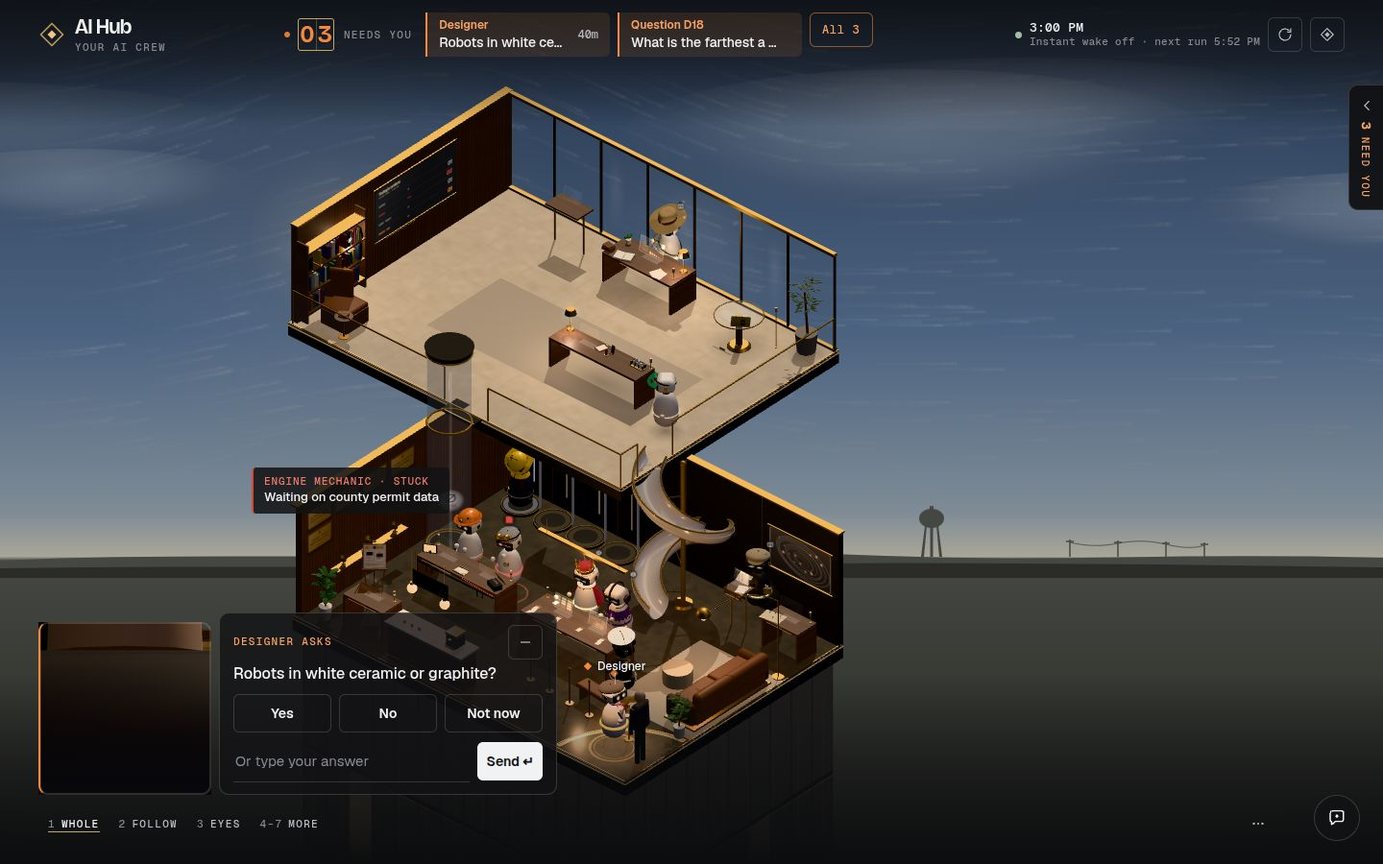
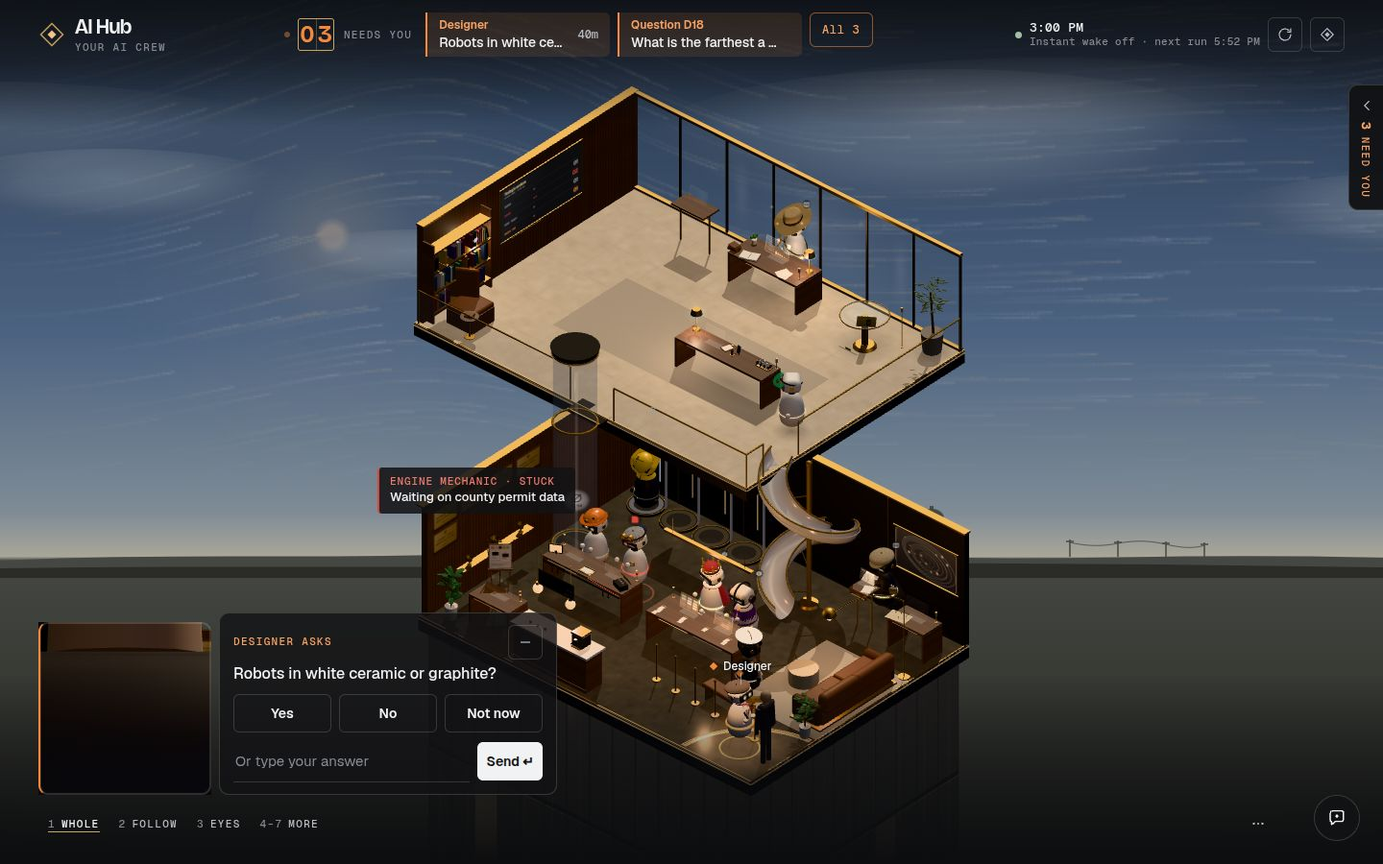
Hub v28.0: King thread on top of the live v28.0 (amazing-wright b2b50ad fixes: face-cam, seat plates, Ledger toast)
design_gate --page crew-hq PASS (120 views). FilthE: yes, commit and push hub v28.

Claude-Session: https://claude.ai/code/session_01FERv6AGSv3mJ7kZTLTcybV

Changed region(s): [[0.1562, 0.0933, 0.7188, 0.9022]]

diff --git a/pages/crew-hq.html b/pages/crew-hq.html
@@ -138,6 +138,7 @@ h1,h2,h3,p{margin:0}
 .still{position:absolute;left:0;right:0;top:56px;bottom:64px;width:100%;height:calc(100% - 120px);object-fit:contain;display:none}
 .no-gl .still{display:block}
 .no-gl #gl{display:none}
+.no-gl #camSeg{display:none}
 .foot-scrim{position:absolute;left:0;right:0;bottom:0;height:22%;background:var(--scrim-foot);pointer-events:none}
 .ov{position:absolute;inset:0;pointer-events:none;overflow:hidden}
 .stagetop{position:absolute;left:12px;right:12px;top:10px;z-index:4;display:flex;gap:8px;align-items:flex-start;justify-content:center;pointer-events:none}
@@ -625,9 +626,10 @@ button.task:hover{border-color:var(--brass);color:var(--ink)}
 .tag.sel{color:#e3c98f}
 .bub.blocked,.bub.done{color:#f1f2f4}
 :root[data-look="ledger"] .stagebar{background:var(--card-solid);border:1px solid var(--rule);border-radius:var(--r);padding:0 6px}
-:root[data-look="ledger"] .btn.pri{color:#fbfaf7}
-:root[data-look="ledger"] .btn.pri:hover{background:#000}
 :root[data-look="ledger"] .live .clk{color:var(--ink)}
+/* Ledger's ink is dark: the ivory Send button and the toast flip to light text on it */
+:root[data-look="ledger"] .btn.pri,:root[data-look="ledger"] .app-toast{color:var(--bg-2)}
+:root[data-look="ledger"] .btn.pri:hover{background:#000}
 
 /* ---------- P4: spotlight, speech chips, The Call, robot eyes, coffee ---------- */
 .spot{position:absolute;inset:0;pointer-events:none;opacity:0;transition:opacity .25s;background:radial-gradient(circle 140px at var(--sx,50%) var(--sy,50%),transparent 0,transparent 55%,var(--spot-dim,rgba(12,13,15,.14)) 100%)}
@@ -964,7 +966,7 @@ const TX = {
       king: n => `${n} board ${n === 1 ? 'item' : 'items'} done.`, busy: p => `One sec… ${p}`, rest: 'Taking a breather.'},
     views: {all: 'Whole', cctv: 'Security cam', up: 'Up', down: 'Down', follow: 'Follow', window: 'Through the window', tilt: 'Tilt-shift', director: 'Director', eyes: 'Eyes'},
     keys: [['1 2 3', 'Whole · Follow · the robot’s eyes'], ['4 – 7', 'Security cam · Through the window · Tilt-shift · Director'], ['↑ ↓', 'Upstairs / downstairs (or scroll over the office)'], ['← →', 'Next robot'], ['0', 'Jump to the Right now list'], ['V', 'Status view: the room greys, only status colors stay lit'], ['P ]', 'Hide or show the panel'], ['K', 'Talk to the Right Hand'], ['N', 'Show every name'], ['A', 'Jump to the next question (focus only; nothing is sent)'], ['C', 'Crew: on a Mac, the top Right now row'], ['B L M', 'Board, Log, Memory'], ['/', 'Search this tab'], ['R', 'Refresh now'], ['Esc', 'Close'], ['?', 'This sheet']],
-    sum: {working: 'working', blocked: 'stuck', sleeping: 'asleep'},
+    sum: {working: 'working', stuck: 'stuck', silent: 'quiet', asleep: 'asleep'},
     none: 'Nothing needs you right now.', moreN: n => `All ${n}`, less: 'Less',
     qWord: 'Question', qFrom: 'On the board', askedBy: n => `${n} asks`, asks: 'Asks you', stuck: 'Stuck on', doing: 'Now doing', lastRes: 'Last result', lastCheck: 'Last check-in', recent: 'Recent',
     livesIn: 'Lives in', reachIt: 'Reach it', close: 'Close', progress: (d, o) => `${d} of ${o}`, noneYet: 'none yet',
@@ -1104,6 +1106,7 @@ function mentionsHail(text){
 }
 
 /* push live state to the scene: a new seq whenever what a robot is doing changes */
+const doneSeen = {};   // id -> when this page saw it turn done (a new seq while done); RIGHT NOW shows done for 6 s like the room (blueprint 3.1)
 function sync(first){
   const now = Date.now();
   for (const a of bots) a.disp = displayState(a, now);
@@ -1114,7 +1117,8 @@ function sync(first){
     const spot = st === 'working' && d.room === 'board' && a.id !== 'code' && a.id !== 'king' ? 'standup' : null;
     a.qinfo = st === 'idle' ? queuedOf(a, asks) : null; a.queued = !!a.qinfo;   // CONTRACT v3: queued is page-derived
     const sig = st + '|' + spot + '|' + (a.step || '') + '|' + a.queued;
-    if (sig !== a.sig) { a.instant = !a.sig || !!first || RMQ.matches; a.sig = sig; a.st = st; a.spot = spot; a.seq++; }
+    if (sig !== a.sig) { if (st === 'done' && a.sig && !first) { doneSeen[a.id] = Date.now(); setTimeout(refreshAll, 6100); }   // done shows 6 s, on the scene's clock
+      a.instant = !a.sig || !!first || RMQ.matches; a.sig = sig; a.st = st; a.spot = spot; a.seq++; }
     a.since = a.atMs || 0;
   }
   // Storm mood: Storm Watch reported hail in the last 3 hours
@@ -1130,7 +1134,8 @@ function sync(first){
 /* the 7-state id (blueprint 3.1): the scene state, plus queued (derived) and silent (the run watchdog) */
 function st7For(a){
   const st = a.st;
-  if (st === 'waiting') return 'needs'; if (st === 'blocked') return 'stuck'; if (st === 'done') return 'done'; if (st === 'sleeping') return 'asleep';
+  if (st === 'waiting') return 'needs'; if (st === 'blocked') return 'stuck'; if (st === 'sleeping') return 'asleep';
+  if (st === 'done') return Date.now() - (doneSeen[a.id] || 0) < 6000 ? 'done' : 'idle';   // 6 s, then free (a reload shows it free, as the room does)
   if (st === 'working') return a.silent ? 'silent' : 'working';
   if (a.queued) return 'queued';
   return a.disp && a.disp.stale && !a.disp.orphan ? 'silent' : 'idle';   // still "working" hours after its last check-in: quiet, not free
@@ -1294,17 +1299,19 @@ function renderNeeds(){
   if (lastNeedIds && dingOn && ids.some(k => k.startsWith('q:') && !lastNeedIds.includes(k))) ding();
   lastNeedIds = ids;
   const botIds = items.filter(i => i.bot).map(i => i.key);
-  if (botIds.join() !== HUB.needs.ids.join()) {   // CONTRACT v2: the call pool + the line
-    const added = botIds.filter(id => !HUB.needs.ids.includes(id)); HUB.needs = {v:HUB.needs.v + 1, ids:botIds};
+  if (botIds.join() !== HUB.needs.ids.join()) HUB.needs = {v:HUB.needs.v + 1, ids:botIds};   // CONTRACT v2: the call pool + the line
+  if (!replay) {   // a replay's states are not new needs: compare with the live ids, which only move outside a replay
+    const liveIds = renderNeeds.live || [], added = botIds.filter(id => !liveIds.includes(id));
     if (added.length && renderNeeds.seeded && !panelOpen()) setPanel(true, {remember:false});   // something new needs him: the panel slides back (his choice stays saved)
+    renderNeeds.live = botIds;
   }
   if (gotAgents) renderNeeds.seeded = true;
   renderPanelTab(n);
   $('#cw').dataset.n = n; rollDigit($('#d10'), Math.min(9, Math.floor(n/10))); rollDigit($('#d1'), n > 99 ? 9 : n % 10); $('#ncount').textContent = ' · ' + n;
   const baseTitle = renderNeeds.base = hubName();   // "(1) Designer needs you — AI Hub"; plain at zero (it follows Make it yours)
   document.title = n ? T.titleNeeds(n, items[0].bot ? items[0].who : items[0].who) : baseTitle;
-  const cnt = {working:0, blocked:0, sleeping:0}; for (const a of bots) { const s = a.disp ? a.disp.status : a.st; if (cnt[s] != null) cnt[s]++; }
-  $('#rsum').textContent = ['working', 'blocked', 'sleeping'].filter(k => cnt[k]).map(k => cnt[k] + ' ' + T.sum[k]).join(' · ');
+  const cnt = {}; for (const a of bots) if (a.st7) cnt[a.st7] = (cnt[a.st7] || 0) + 1;   // the 7-state counts, so it matches RIGHT NOW
+  $('#rsum').textContent = ['working', 'stuck', 'silent', 'asleep'].filter(k => cnt[k]).map(k => cnt[k] + ' ' + T.sum[k]).join(' · ');
   const al = alerts, cw = canWaitItems(), pk = parkedItems();
   const alShow = isWide ? al.slice(0, 1) : al, cap = isWide ? Math.max(1, 2 - alShow.length) : 3, show = !isWide && needsAll ? items : items.slice(0, cap);
   const rest = n - show.length, extra = al.length - alShow.length, hasMore = rest > 0 || extra > 0 || cw.length || pk.length;
@@ -1467,7 +1474,7 @@ function workStep(a){
   const ev = events.find(e => e.agent === a.id && !e.approx && e.atMs >= (a.atMs || 0) - 60e3);   // the event kind, while this state lasts
   if (ev && ev.kind === 'handoff' && ev.to && ev.to !== a.id) return {step:'handing', to:ev.to};
   const allowed = ROLE_VERBS[a.id] || [], doing = a.doing || '';
-  for (const [rx, v] of KEYWORDS) if (allowed.includes(v) && rx.test(doing)) return {step:v};
+  for (const [rx, v] of KEYWORDS) { if (v === 'hail' && !mentionsHail(doing)) continue; if (allowed.includes(v) && rx.test(doing)) return {step:v}; }   // 'no hail' is not Hail found
   return {step:ROLE_STEP[a.id] || 'building'};
 }
 const ageShort = ms => { if (!ms) return ''; const m = Math.max(0, Math.floor((Date.now() - ms)/60000)); return m < 1 ? 'now' : m < 60 ? m + 'm' : m < 1440 ? Math.floor(m/60) + 'h' : Math.floor(m/1440) + 'd'; };
@@ -1497,6 +1504,7 @@ function nowRow(a){
   else if (s7 === 'idle') { step = 'free'; verb = VERB.free; }
   else if (s7 === 'done') { step = ['verified', 'failed', 'shipped', 'hail'].includes(a.step) ? a.step : a.id === 'qa-tester' && a.result ? (a.result.passed >= a.result.of ? 'verified' : 'failed') : 'shipped'; verb = VERB[step];
     detail = a.result && a.result.issues ? a.result.issues + (a.result.issues === 1 ? ' issue' : ' issues') + (a.doing ? ' · ' + a.doing : '') : a.doing; }
+  else if (a.spot === 'standup') { step = 'planning'; verb = 'In stand-up'; detail = a.doing; }   // the room plays the board meeting
   else { const w = workStep(a); step = w.step; verb = w.to ? 'Handing to ' + nameOf(w.to) : VERB[step]; detail = metricWords(a) || a.doing; }
   return {id:a.id, st7:s7, step, verb, metric:metricOf(a, s7), since, cocked:s7 === 'stuck', detail:detail || ''};
 }
@@ -2029,7 +2037,7 @@ function setCam(k, fromDolly){
   for (const b of document.querySelectorAll('#camSeg button[data-cam]')) b.setAttribute('aria-pressed', String(b.dataset.cam === k));
   if (k === 'follow' && !byId[selected]) { const w = waitingBots()[0] || bots.find(a => a.st === 'working') || byId.code; select(w.id); }
 }
-function applyViews(){ const v = builtViews(); $('#camMore').hidden = !v.some(x => MORE_VIEWS.includes(x)); for (const b of document.querySelectorAll('#camSeg button[data-cam]')) b.hidden = !v.includes(b.dataset.cam) && !BASE_VIEWS.includes(b.dataset.cam); }
+function applyViews(){ const v = builtViews(); $('#camMore').hidden = !v.some(x => MORE_VIEWS.includes(x)); for (const b of document.querySelectorAll('#camSeg button[data-cam]')) { b.hidden = !v.includes(b.dataset.cam) && !BASE_VIEWS.includes(b.dataset.cam); b.setAttribute('aria-pressed', String(b.dataset.cam === cam)); } }   // a restored More view (set before the scene was ready) presses nothing here
 $('#camSeg').addEventListener('click', e => { const b = e.target.closest('button[data-cam]'); if (!b) return; if (b.dataset.cam === 'eyes' && !byId[selected]) nextOrKing(); setCam(b.dataset.cam); });
 $('#skyBtn').addEventListener('click', () => { sky.mode = SKY_MODES[(SKY_MODES.indexOf(sky.mode) + 1) % SKY_MODES.length]; applySkyLabel(); renderClock(); });
 function applySkyLabel(){ const T = L(), b = $('#skyBtn'); b.textContent = T.skyT(T.sky[sky.mode]); b.title = T.skyAria(T.sky[sky.mode]); b.setAttribute('aria-pressed', String(sky.mode !== 'live')); }
@@ -2267,7 +2275,7 @@ $('#mine').addEventListener('input', e => {
   if (e.target.id === 'mName') { mine.name = e.target.value.slice(0, 24); applyTheme(true); }
   if (e.target.id === 'mVol') { vol = Math.max(0, Math.min(1, (+e.target.value || 0)/100)); store.set('hub-vol', String(vol)); e.target.setAttribute('aria-valuetext', Math.round(vol*100) + '%');
     if (master) master.gain.setTargetAtTime(vol, actx.currentTime, .05);
-    if (Date.now() - (renderMine.prev || 0) > 350) { renderMine.prev = Date.now(); chime('chat-reader', 'check', true); } }   // hear the new level
+    if (dingOn && Date.now() - (renderMine.prev || 0) > 350) { renderMine.prev = Date.now(); chime('chat-reader', 'check', true); } }   // hear the new level (only with sound on)
 });
 $('#mine').addEventListener('change', e => { if (e.target.closest('[data-swc]')) renderMine(); });
 document.addEventListener('pointerdown', e => { if (!$('#mine').hidden && !e.target.closest('#mine,#mineBtn,#keysMine')) closeMine(); });
@@ -2445,11 +2453,11 @@ function seenRect(){ const W = stageEl.clientWidth, H = stageEl.clientHeight; re
 function placeSpot(){
   const el = $('#spot'), S = window.SCENE, id = HUB.hover || (byId[selected] ? selected : null), an = id && isWide && S && S.ready && S.anchors[id];
   const R = seenRect(), x = an ? an.x : 0, y = an ? (an.y + an.fy)/2 : 0, inside = !!an && x >= R.x0 && x <= R.x1 && y >= R.y0 && y <= R.y1;
-  const on = !!(an && an.visible !== false) && inside && cam !== 'eyes';
+  const on = !!(an && an.visible !== false) && inside && (cam !== 'eyes' || RMQ.matches);
   if (on) { const sx = Math.round(x), sy = Math.round(y), sig = sx + ',' + sy; if (sig !== spotSig) { spotSig = sig; el.style.setProperty('--sx', sx + 'px'); el.style.setProperty('--sy', sy + 'px'); } }
   el.classList.toggle('on', on);
   // a hovered RIGHT NOW row whose robot is off-screen: an arrow at the edge points to it (anchors report x,y even off-stage)
-  const ed = $('#edge'), off = !!an && pres.rowHover === id && !inside && isFinite(x) && isFinite(y) && cam !== 'eyes';
+  const ed = $('#edge'), off = !!an && pres.rowHover === id && !inside && isFinite(x) && isFinite(y) && (cam !== 'eyes' || RMQ.matches);
   if (ed.hidden !== !off) ed.hidden = !off;
   if (off) { const m = 22, cx = Math.max(R.x0 + m, Math.min(R.x1 - m, x)), cy = Math.max(R.y0 + m, Math.min(R.y1 - m, y)), ang = Math.atan2(y - cy, x - cx)*180/Math.PI;
     if ($('#edgeName').textContent !== tx(byId[id].def.name)) $('#edgeName').textContent = tx(byId[id].def.name);
@@ -2527,7 +2535,7 @@ const EYE_FRAMES = {
 };
 const EYE_CLASS = {code:'v king', 'qa-tester':'lens', 'engine-mechanic':'lens goggles', 'storm-watch':'v storm'};
 function renderEyes(){
-  const on = cam === 'eyes' && !!byId[selected]; $('#eyes').hidden = !on; if (!on) { renderEyes.sig = ''; return; }
+  const on = cam === 'eyes' && !RMQ.matches && !!byId[selected]; $('#eyes').hidden = !on; if (!on) { renderEyes.sig = ''; return; }   // reduced motion: the scene shows Follow, so no visor
   const a = byId[selected], T = L(), p = a.progress && typeof a.progress === 'object' && a.progress.of ? ' · ' + a.progress.done + '/' + a.progress.of : '';
   const sig = [a.id, a.doing, a.task, p].join('|'); if (sig === renderEyes.sig) return; renderEyes.sig = sig;
   $('#eyeFrame').className = 'eyef ' + (EYE_CLASS[a.id] || 'v'); $('#eyeFrame').innerHTML = EYE_FRAMES[a.id] || '';
@@ -2623,9 +2631,10 @@ function rainAmbience(){
   try { const c = audio();
     if (!rainSrc) { rainSrc = c.createBufferSource(); rainSrc.buffer = noise(); rainSrc.loop = true; const hp = c.createBiquadFilter(), lp = c.createBiquadFilter(); hp.type = 'highpass'; hp.frequency.value = 400; lp.type = 'lowpass'; lp.frequency.value = 2200;
       rainGain = c.createGain(); rainGain.gain.value = 0; rainSrc.connect(hp).connect(lp).connect(rainGain).connect(bus()); rainSrc.start(); }
-    rainGain.gain.setTargetAtTime(want, c.currentTime, .9);
+    rainGain.gain.setTargetAtTime(want, c.currentTime, document.hidden ? .2 : .9);
     if (!want) { const s = rainSrc; setTimeout(() => { if (rainSrc === s && rainGain.gain.value < .002) { try { s.stop(); } catch (e) { /* stopped */ } rainSrc = null; } }, 4500); }
   } catch (e) { /* no audio */ } }
+document.addEventListener('visibilitychange', rainAmbience);   // a hidden tab has no frames (soundTick stops): fade the loop out here, not all night
 /* the room's moments, read from the scene's anchors ~7 times a second: rides, typing under the pointer, rain */
 const lastPose = {};
 function soundTick(){
@@ -2639,7 +2648,7 @@ const lastSt = {};
 function chimeChanges(){
   if (replay) return;
   for (const a of bots) { const p = lastSt[a.id]; lastSt[a.id] = a.st; if (p === undefined || p === a.st) continue;
-    if (a.st === 'waiting') chime(a.id, 'wait'); else if (a.st === 'done') chime(a.id, 'done'); else if (a.st === 'blocked') chime(a.id, 'block'); }
+    if (a.st === 'waiting') chime(a.id, 'wait'); else if (a.st === 'done') chime(a.id, a.id === 'storm-watch' && (a.step === 'hail' || mentionsHail(a.doing)) ? 'hail' : 'done'); else if (a.st === 'blocked') chime(a.id, 'block'); }   // hail rings through quiet hours (Make it yours)
 }
 $('#mCheck').addEventListener('click', () => { bots.forEach((a, i) => setTimeout(() => { chime(a.id, 'check', true); appToast(tx(a.def.name), 900); }, i*1000)); });
 
@@ -3257,7 +3266,7 @@ function onEvents(snap){
   sync(false); renderFeeds(); renderCard(); renderBoard(); renderRoster(); refreshLive(); maybeRecap();
 }
 let gotBoard = false, gotAnswers = false;
-function onBoard(snap){ board = snap.exists ? snap.data() : null; gotBoard = true; got(); renderBoard(); renderNeeds(); renderCard(); refreshLive(); maybeRecap(); }
+function onBoard(snap){ board = snap.exists ? snap.data() : null; gotBoard = true; got(); renderBoard(); renderNeeds(); renderCard(); refreshLive(); maybeRecap(); renderNow(); }
 function onAnswers(snap){ got(); answers = {}; for (const d of snap.docs) { const v = d.data(); if (v) answers[d.id] = v; } gotAnswers = true; sync(false); renderBoard(); renderNeeds(); renderRoster(); renderCard(); maybeRecap(); }
 function onMemory(snap){ got(); memDoc = snap.exists ? snap.data() : null; renderMemory(); }
 let kingLoaded = false;

diff --git a/pages/hub/scene.js b/pages/hub/scene.js
@@ -622,7 +622,7 @@ const podGlow = [];
 }
 plant(4.32, 1.4, .62); plant(-4.05, 3.0, .7);
 /* ================= the instrument room (ART 6.6): one 1.25x hero prop per desk, brass plates No. 01-10, status bars ================= */
-const SEATS = [['code','01'],['king','02'],['builder','03'],['designer','04'],['engine-mechanic','05'],['qa-tester','06'],['hub-keeper','07'],['cowork','08'],['storm-watch','09'],['chat-reader','10']];
+const SEATS = [['hub-keeper','01'],['qa-tester','02'],['storm-watch','03'],['code','04'],['king','05'],['builder','06'],['designer','07'],['engine-mechanic','08'],['chat-reader','09'],['cowork','10']];   // v28: the page's CREW order (upstairs 01-03)
 const plateT = tex(512, 128, (g,w,h) => {
   SEATS.forEach(([, n], i) => { const x = (i%5)*102, y = Math.floor(i/5)*64;
     const gr = g.createLinearGradient(x, y, x, y + 60); gr.addColorStop(0,'#e3c98f'); gr.addColorStop(.5,'#c9a45c'); gr.addColorStop(1,'#8a6a3a'); g.fillStyle = gr; g.fillRect(x + 1, y + 2, 100, 60);
@@ -720,6 +720,7 @@ const spot = {};
 const FIG = {x:4.3, z:2.6};              // beside the line, so it never hides a face from the 3/4 camera
 const LINE = [[3.58,2.6],[2.98,2.54],[2.38,2.48],[1.78,2.42],[1.18,2.36]];
 const lineUI = {ropes:[], n:-1, sign:null, signText:''};
+let figG = null;                         // your figure's group: renderPip hides it (it stands between the first asker and the face-cam)
 {
   // you: a quiet graphite figure with a brass collar pin, facing the line
   const k = new Map(), fy = Math.atan2(LINE[0][0] - FIG.x, LINE[0][1] - FIG.z);
@@ -729,7 +730,7 @@ const lineUI = {ropes:[], n:-1, sign:null, signText:''};
   for (const s_ of [-1,1]) part(k, new THREE.CylinderGeometry(.05, .045, .6, 10), MAT.jacket, s_*.24, 1.1, .02, 0, 0, s_*.08);
   part(k, new THREE.CylinderGeometry(.05, .055, .08, 12), MAT.skin, 0, 1.48, 0); part(k, new THREE.SphereGeometry(.12, 20, 14), MAT.skin, 0, 1.62, 0, 0, 0, 0, 1, 1.12, 1);
   part(k, new THREE.SphereGeometry(.018, 8, 6), MAT.brass, -.1, 1.34, .12);
-  const g = new THREE.Group(); bake(k, g, true); g.position.set(FIG.x, 0, FIG.z); g.rotation.y = fy; P.add(g); blob(FIG.x, FIG.z, .7, .7, .45);
+  const g = new THREE.Group(); bake(k, g, true); g.position.set(FIG.x, 0, FIG.z); g.rotation.y = fy; P.add(g); figG = g; blob(FIG.x, FIG.z, .7, .7, .45);
   // brass posts on the room side of the line, a leather bench behind it
   const dir = new THREE.Vector2(LINE[0][0] - LINE[4][0], LINE[0][1] - LINE[4][1]).normalize(), off = [dir.y*.42, -dir.x*.42];   // posts behind the line (room side)
   lineUI.posts = LINE.map(([x, z]) => [x + off[0], z + off[1]]); lineUI.posts.push([LINE[4][0] - dir.x*.58 + off[0], LINE[4][1] - dir.y*.58 + off[1]]);
@@ -972,6 +973,10 @@ function planFor(a){                                                         // 
   return {pose:p};
 }
 const planKey = p => p ? (p.spot || '') + ':' + (p.pose || '') + (p.cheer ? '!' : '') : '';
+/* a done robot's verb (verified / failed / shipped / hail): the RIGHT NOW row's while it shows done; once the row drops to idle
+ * (6 s) the step we already planned with stays, so the room doesn't re-plan (and cheer again) when the list moves on */
+function doneStep(a, sim){ const r = nowRow(a.id); if (r && r.st7 === 'done' && typeof r.step === 'string') return r.step;
+  return sim.seq === a.seq && sim.est === 'done' ? sim.dstep || '' : typeof a.step === 'string' ? a.step : ''; }
 /* the state the room acts out: the agent's st, plus queued (CONTRACT v3: a handoff to it not picked up, or its task holds) */
 function estOf(a){ const r = nowRow(a.id), q = r ? r.st7 === 'queued' : !!a.queued;
   return q && a.st !== 'waiting' && a.st !== 'blocked' && a.st !== 'sleeping' ? 'queued' : a.st; }
@@ -1005,7 +1010,11 @@ function applyState(sim, a, instant){
   else if (st === 'sleeping') q.push({spot:'pod', pose:'sleep'});
   else if (st === 'waiting') q.push({spot:'front', pose:'wait'});
   else if (st === 'blocked') q.push({spot:'desk', pose:'blocked'});
-  else if (st === 'done') q.push({spot:null, pose:'cheer', dur:2.4}, {spot:'coffee', pose:'coffee', dur:6}, {spot:'lounge', pose:'lounge'});
+  else if (st === 'done'){ const ds = sim.dstep;                   // CONTRACT v3 verbs: failed = the stamp at the QA bench, hail = the radar at the rail; a failed run never cheers
+    if (ds === 'failed' && a.id === 'qa-tester') q.push({spot:'desk', pose:'stamp', dur:2.4});
+    else if (ds === 'hail' && a.id === 'storm-watch') q.push({spot:'rail', pose:'radar', dur:6});
+    else if (ds !== 'failed') q.push({spot:null, pose:'cheer', dur:2.4});
+    q.push({spot:'coffee', pose:'coffee', dur:6}, {spot:'lounge', pose:'lounge'}); }
   else q.push({spot:'idle', pose:'lounge'});
   sim.queue = q; sim.wanderAt = 0;
   // the pose at a spot follows the spot (work pose at a desk, coffee at the bar, lounge elsewhere)
@@ -1084,9 +1093,10 @@ function syncAgent(a, i){
   if (a.hidden){ if (!sim.hidden){ sim.hidden = true; release(sim); sim.seq = undefined; } return sim; }
   if (sim.hidden){ sim.hidden = false; }
   // v28: re-plan on a new seq, or when the RIGHT NOW row changes what the room should show (a new step, queued on/off)
-  const est = estOf(a), plan = est === 'working' && a.spot !== 'standup' ? planFor(a) : null, pk = est + '|' + planKey(plan);
+  const est = estOf(a), plan = est === 'working' && a.spot !== 'standup' ? planFor(a) : null, ds = est === 'done' ? doneStep(a, sim) : '';
+  const pk = est + '|' + (est === 'done' ? ds : planKey(plan));
   if (sim.seq !== a.seq || sim.pk !== pk){
-    const first = sim.seq === undefined, seqCh = sim.seq !== a.seq; sim.seq = a.seq; sim.pk = pk; sim.est = est; sim.plan = plan; sim.stepId = stepOf(a);
+    const first = sim.seq === undefined, seqCh = sim.seq !== a.seq; sim.seq = a.seq; sim.pk = pk; sim.est = est; sim.plan = plan; sim.dstep = ds; sim.stepId = stepOf(a);
     if (est === 'done' && (seqCh || first)) sim.doneAt = first ? -1e9 : performance.now();
     if (seqCh && !first && !RM.matches && (a.st === 'done' || a.st === 'waiting'))   // the others glance: eyes first, then heads
       for (const o of Object.values(sims)) if (o !== sim && !o.hidden) o.glance = {id:a.id, t:0, dur:2.6, head:.18 + Math.random()*.25};
@@ -1115,7 +1125,7 @@ const DONE_MS = 6000;
 function statusOf(a, sim){
   if (sim.pose === 'sleep') return 'asleep';
   const st = sim.est || a.st;
-  if (st === 'waiting') return 'needs'; if (st === 'blocked') return 'stuck'; if (a.silent) return 'silent';
+  if (st === 'waiting') return 'needs'; if (st === 'blocked') return 'stuck'; if (a.silent || (nowRow(a.id) || {}).st7 === 'silent') return 'silent';   // the watchdog, or a stale check-in the list shows Quiet
   if (sim.pose === 'cheer' || st === 'done' && sim.doneAt != null && performance.now() - sim.doneAt < DONE_MS) return 'done';
   return st === 'working' ? 'working' : st === 'queued' ? 'queued' : 'idle';
 }
@@ -1479,7 +1489,7 @@ function lineOrder(){ const H = HUB, ag = H.agents || []; if (lineOrder.f === fr
   return (lineOrder.v = ids); }
 function fmtWait(ms){ const m = Math.max(0, Math.floor(ms/60e3)), h = Math.floor(m/60); return h ? h + ' h ' + (m % 60) + ' min' : m + ' min'; }
 let frameNo = 0;
-const SEATN = {code:1, king:2, builder:3, designer:4, 'engine-mechanic':5, 'qa-tester':6, 'hub-keeper':7, cowork:8, 'storm-watch':9, 'chat-reader':10};
+const SEATN = {'hub-keeper':1, 'qa-tester':2, 'storm-watch':3, code:4, king:5, builder:6, designer:7, 'engine-mechanic':8, 'chat-reader':9, cowork:10};
 const V3 = new THREE.Vector3(), V2d = new THREE.Vector2(), SCR_W = new THREE.Color(0xffffff), SCR_DIM = new THREE.Color(0xb8a89a);
 let zoneNow = [], zonePrev = [];
 function fremontMin(){ const n = Date.now(); if (fremontMin.at && n - fremontMin.at < 20e3) return fremontMin.v; fremontMin.at = n;
@@ -1533,7 +1543,7 @@ function animRobot(a, sim, R, t, dt){
   const seat = sim.spot && sim.spot.seat && !sim.moving ? .2 : 0;
   const S = stateOf(a, sim), seatN = SEATN[a.id] ?? 0;
   // in the zone (FUN 3): 45 min of unbroken work -> lean in 8 deg, the chase runs 1.5x, a warm pool on the desk
-  const zone = a.st === 'working' && a.since && Date.now() - a.since > 45*60e3 && WORK_POSES.has(pose) && pose !== 'meet' && !sim.moving;
+  const zone = a.st === 'working' && !a.silent && a.since && Date.now() - a.since > 45*60e3 && WORK_POSES.has(pose) && pose !== 'meet' && !sim.moving;
   R.zone = zone ? 1.5 : 1; if (zone) zoneNow.push(sim);
   R.zoneK = lerp(R.zoneK || 0, zone ? 1 : 0, Math.min(1, dt*2)); R.zoneDecal.visible = R.zoneK > .02; R.zoneDecal.material.opacity = .2*R.zoneK;
   // blocked, acted out: try, recoil, sigh, tap the visor, try again; the cycle slows from 6 s to 20 s as the block ages
@@ -1607,7 +1617,7 @@ function animRobot(a, sim, R, t, dt){
   else if (stc === 'done'){ col = TH.done; hop = .3; gop = .18; }
   else if (stc === 'working' || pose === 'ride'){ col = TH.work; hop = .3; gop = .16; }
   else if (stc === 'queued'){ col = cTmp.copy(TH.queue).lerp(QDIM, .45); hop = .05; gop = .03; }
-  if (brand && pose !== 'sleep') col = TH.need;
+  if (brand && (stc === 'working' || stc === 'idle' || stc === 'queued')) col = TH.work;   // 'All one color': one calm color; needs / stuck / done / quiet keep theirs (ember stays locked to needs)
   const ck = rm ? 1 : Math.min(1, dt*8);
   R.stripMat.color.lerp(col, ck); R.haloMat.color.lerp(col, ck); R.glow.material.color.lerp(col, ck);
   R.haloMat.opacity = lerp(R.haloMat.opacity, hop, stc === 'needs' ? 1 : Math.min(1, dt*6));
@@ -2104,8 +2114,10 @@ function renderPip(){
   HEADV.set(0, R.hov.position.y + .82*1.24, 0); R.root.localToWorld(HEADV);
   const yaw = sim.yawDraw; fcam.aspect = w/h; fcam.position.set(HEADV.x + Math.sin(yaw)*.95, HEADV.y + .06, HEADV.z + Math.cos(yaw)*.95); fcam.lookAt(HEADV.x, HEADV.y - .02, HEADV.z); fcam.updateProjectionMatrix();
   const vis = R.root.visible; R.root.visible = true;                   // an upstairs asker still shows its face while the floor is lifted away
+  const fv = figG ? figG.visible : false, hid = []; if (figG) figG.visible = false;   // your figure (and a robot ahead in line) would sit between the face-cam and the face
+  for (const id in robots){ const o = robots[id]; if (o !== R && o.root.visible && Math.hypot(o.root.position.x - fcam.position.x, o.root.position.z - fcam.position.z) < .7){ o.root.visible = false; hid.push(o); } }
   const yb = H - y - h; renderer.setScissorTest(true); renderer.setScissor(x, yb, w, h); renderer.setViewport(x, yb, w, h); renderer.clear(); renderer.render(scene, fcam);
-  renderer.setScissorTest(false); renderer.setViewport(0, 0, W, H); R.root.visible = vis;
+  renderer.setScissorTest(false); renderer.setViewport(0, 0, W, H); R.root.visible = vis; if (figG) figG.visible = fv; for (const o of hid) o.root.visible = true;
   pipSt.drawn = true;
 }
 function burstSmall(p){ burst(p.x, p.y, p.z, 10, .9); }

diff --git a/pages/hub/outfits.js b/pages/hub/outfits.js
@@ -273,7 +273,7 @@ export function dress(kit, a, R, def){
     const card = R.card = mk(hg, .14, .09, .08);
     const cardT = (back) => K.tex(128, 88, (g,w,h) => { g.fillStyle = '#f6f1e6'; g.fillRect(0,0,w,h); g.strokeStyle = 'rgba(0,0,0,.25)'; g.strokeRect(3,3,w-6,h-6);
       g.textAlign = 'center'; g.textBaseline = 'middle'; g.font = '600 ' + (back ? 26 : 30) + 'px Geist, system-ui, sans-serif'; g.fillStyle = back ? '#f5883a' : '#141414';
-      g.fillText(back ? '¡EXTRA!' : (K.HUB.lang === 'es' ? 'PRENSA' : 'PRESS'), w/2, h/2 + 2); });
+      g.fillText(back ? 'EXTRA!' : (K.HUB.lang === 'es' ? 'PRENSA' : 'PRESS'), w/2, h/2 + 2); });
     R.cardFront = cardT(false); const cf = new THREE.Mesh(new THREE.PlaneGeometry(.088, .06), std({map:R.cardFront, roughness:.6})); cf.position.z = .002; card.add(cf);
     const cbk = new THREE.Mesh(new THREE.PlaneGeometry(.088, .06), std({map:cardT(true), roughness:.6})); cbk.rotation.y = Math.PI; cbk.position.z = -.002; card.add(cbk);
     card.rotation.set(0, .5, -.28);

diff --git a/docs/CHANGELOG.md b/docs/CHANGELOG.md
@@ -1,9 +1,10 @@
 # HMP App changelog (newest first)
 
-## AI hub v28.0 "calm and clear" - 2026-09-28
+## AI hub v28.0 "Calm and clear" - 2026-09-28 (live: hub Version 28)
+- RIGHT NOW list on the right: every robot's status in one line (needs you, stuck, working, queued, done, free, asleep, quiet). Robots now sit by kind of work: upstairs thinks (Research Lead, QA, Storm Watch), downstairs does. Press V and the room goes grey so only problems stay lit.
+- Calmer screen: P hides the side panel (it slides back when something needs you), a round chat bubble bottom-right talks to the King (K), 4 camera buttons (Whole, Follow, Eyes, More), name tags only when they matter, straight rain only in the sky, English only, named "AI Hub".
+- The Call shows the robot's real face (was a black box), more sounds (still off by default, with a volume slider), and about 20 fixes from a full check before going live.
 - Talk to the King right in the hub: the chat bubble opens a King thread (your message wakes Claude Code at once; its reply lands in the same thread as easy-to-read paragraphs and numbered questions, with a dot and a toast). The Right Hand is one tap away for instant answers.
-- RIGHT NOW crew list, 7 clear status states, a side panel you can close, robots re-seated by kind of work, fewer cameras, more (optional) sound, straight rain only in the sky, English only.
-- Wake safety: the hub only wakes the trigger the King names in system/king; Ledger (light) look's Send buttons are readable again.
 
 ## AI hub v27.1 - 2026-09-28 (live: hub Version 27)
 - Smoother: robots no longer redraw the room's shadows every frame (the stutter); shadows only update when the light moves.

diff --git a/docs/design/hub-office/SPEC.md b/docs/design/hub-office/SPEC.md
@@ -169,6 +169,15 @@ Published as hub Version 27 (label "v27.1 smoothness"): shadows only redraw when
 sun, Retina-lighter; `?perf` shows live speed numbers. The live page before it matched the repo page exactly (nothing
 to merge). Real MacBook fps still unmeasured: FilthE to open the link with `?perf` and send a screenshot.
 
+## v28.0 live (2026-09-28)
+Published as hub Version 28 (label "v28.0 calm and clear"): RIGHT NOW, re-seat by kind of work, 7-state status + V view,
+closable panel (P), King chat bubble (K), fewer cameras, sound kit, declutter, straight rain, English only, wake safety
+(no hard-coded trigger; live `system/king.wake_trigger` is set). Pre-publish check (4 reviewers + skeptics) fixed 20
+items (The Call's black face box, seat plates, failed runs cheering, "no hail" read as hail, done lasting 6 s, replay
+reopening a closed panel, Ledger Send buttons...). Live before it matched v27.1 exactly (nothing to merge). Screens:
+`shots/v28/`. Left for v28.1: V keeps in-room status lamps lit (needs a contract field), The Call covers the front-line
+robot at 1440 (pre-existing), canvas rain ignores low-fx.
+
 ## FilthE's v27 walkthrough notes (2026-09-28)
 "The concept is good, it looks good, but it looks a little plain; let's take it further."
 1. The rain streaks down then bends up in the background: fix it (straight, believable rain, only in the sky).

diff --git a/docs/design/hub-office/HANDOFF.md b/docs/design/hub-office/HANDOFF.md
@@ -42,3 +42,10 @@ Old chat closed to save usage. Read SPEC.md (decisions + walkthrough notes 1-11)
   verbs match the room, The Call shows the avatar or the face, never a black box); (3) re-render still.webp from
   `#capture` if time allows; (4) publish per the steps above; ping FilthE.
 - Waiting on FilthE: picks from FUNCTIONS-SHORTLIST.md; "yes Fable for v28.1" or not.
+
+## SHIPPED 2026-09-28 ~18:20 UTC: v28.0 live as hub Version 28
+- Checked together (gate, shots, release checks, 1440/1512/phone/no-CDN renders), 20 fixes (commit 7cdffff) + Ledger
+  Send contrast (b9acc67), still.webp re-rendered from v28. Published with `pages/crew-hq.files.json`. Screens: shots/v28/.
+- The King's branch (claude/amazing-gauss-yzfpq0) has an OLDER pages/crew-hq.html: its live-King wake edits are already
+  inside v28. Never publish the hub page from that branch; merge claude/amazing-wright-lds9q5 into it first.
+- Next: v28.1 "One building" (BUILD-v28.md). Waiting on FilthE: picks from FUNCTIONS-SHORTLIST.md.
